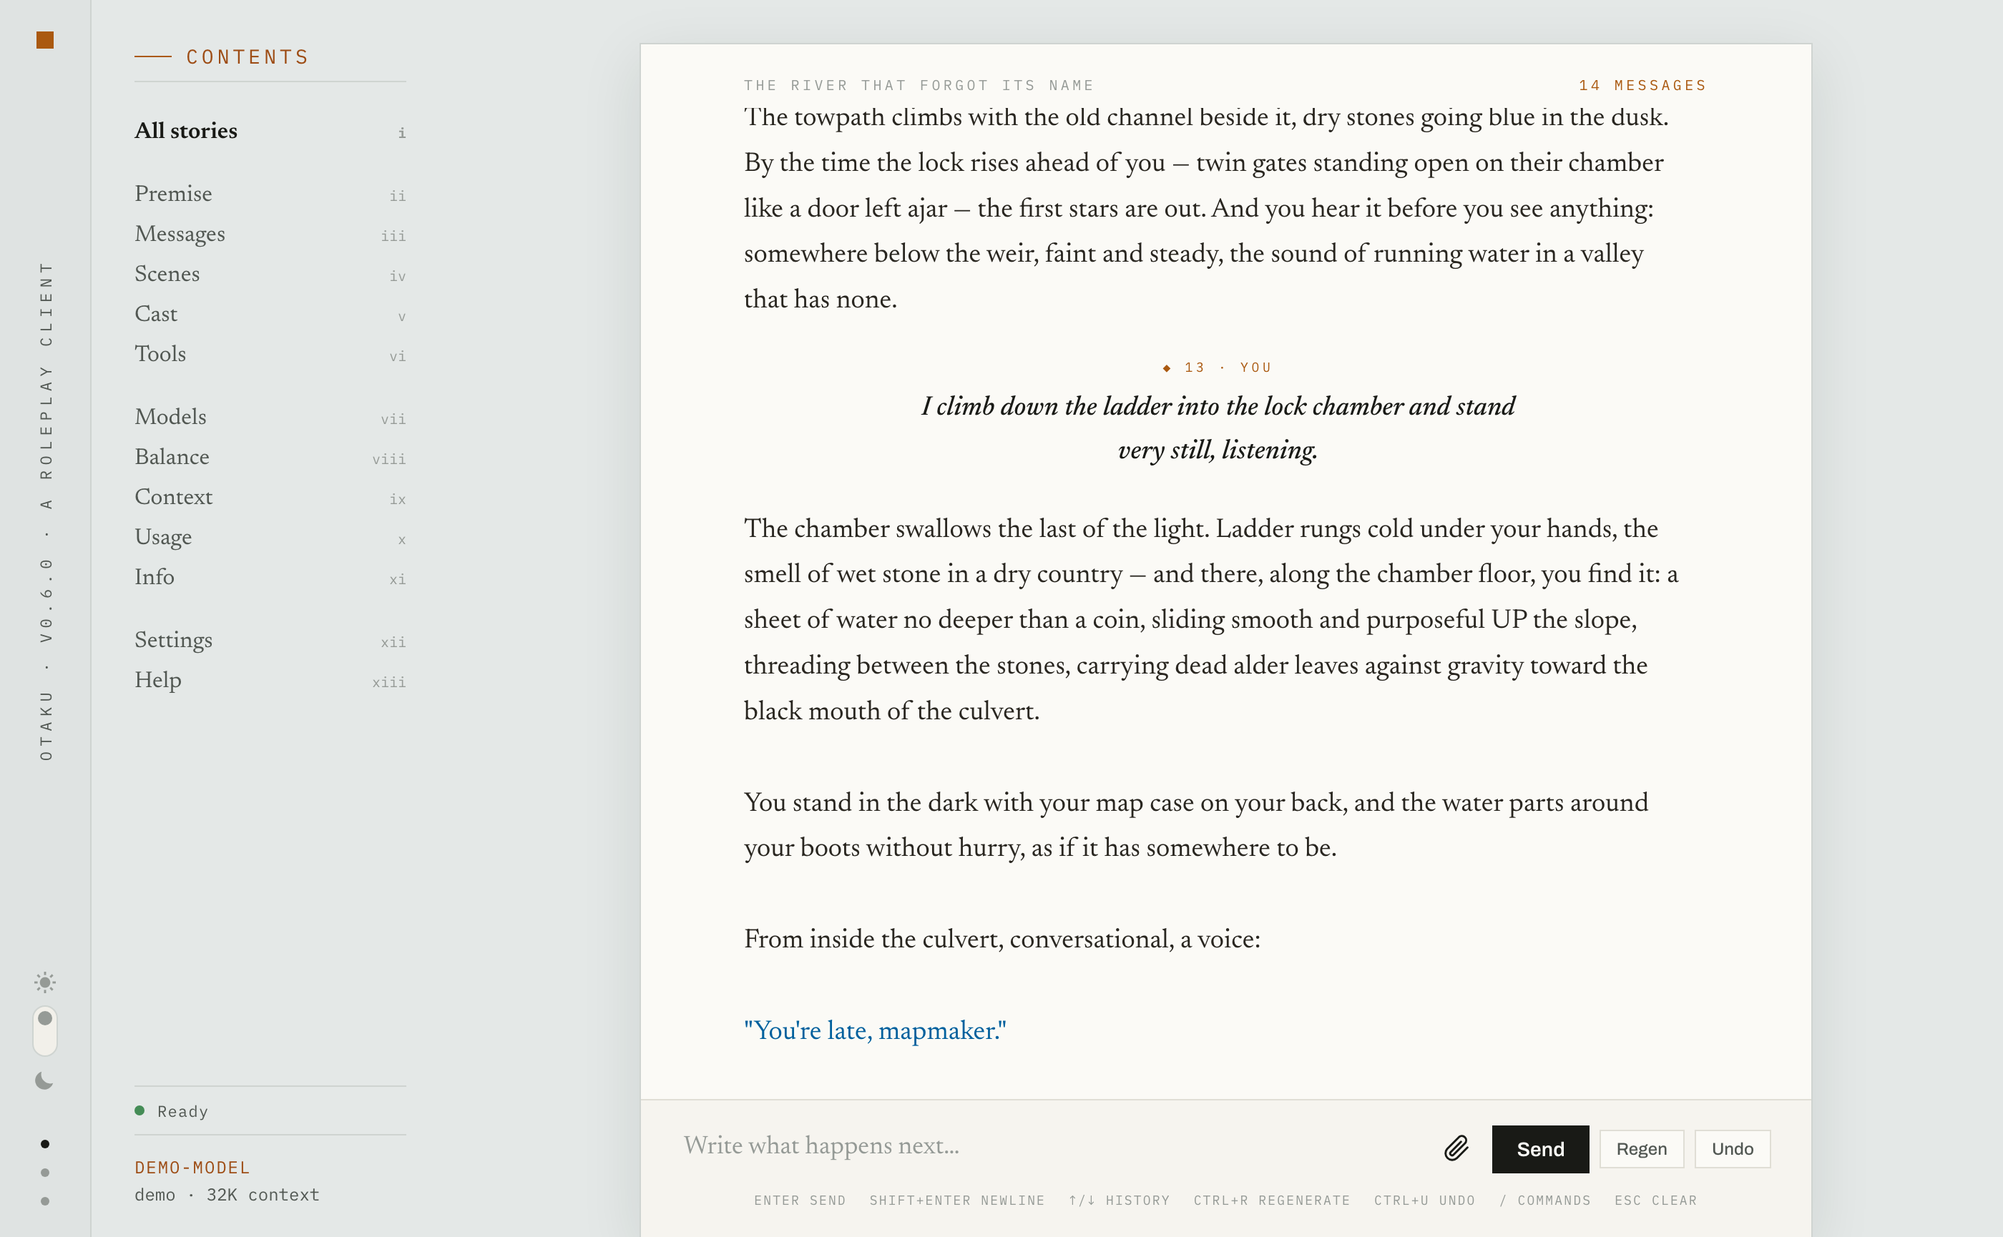
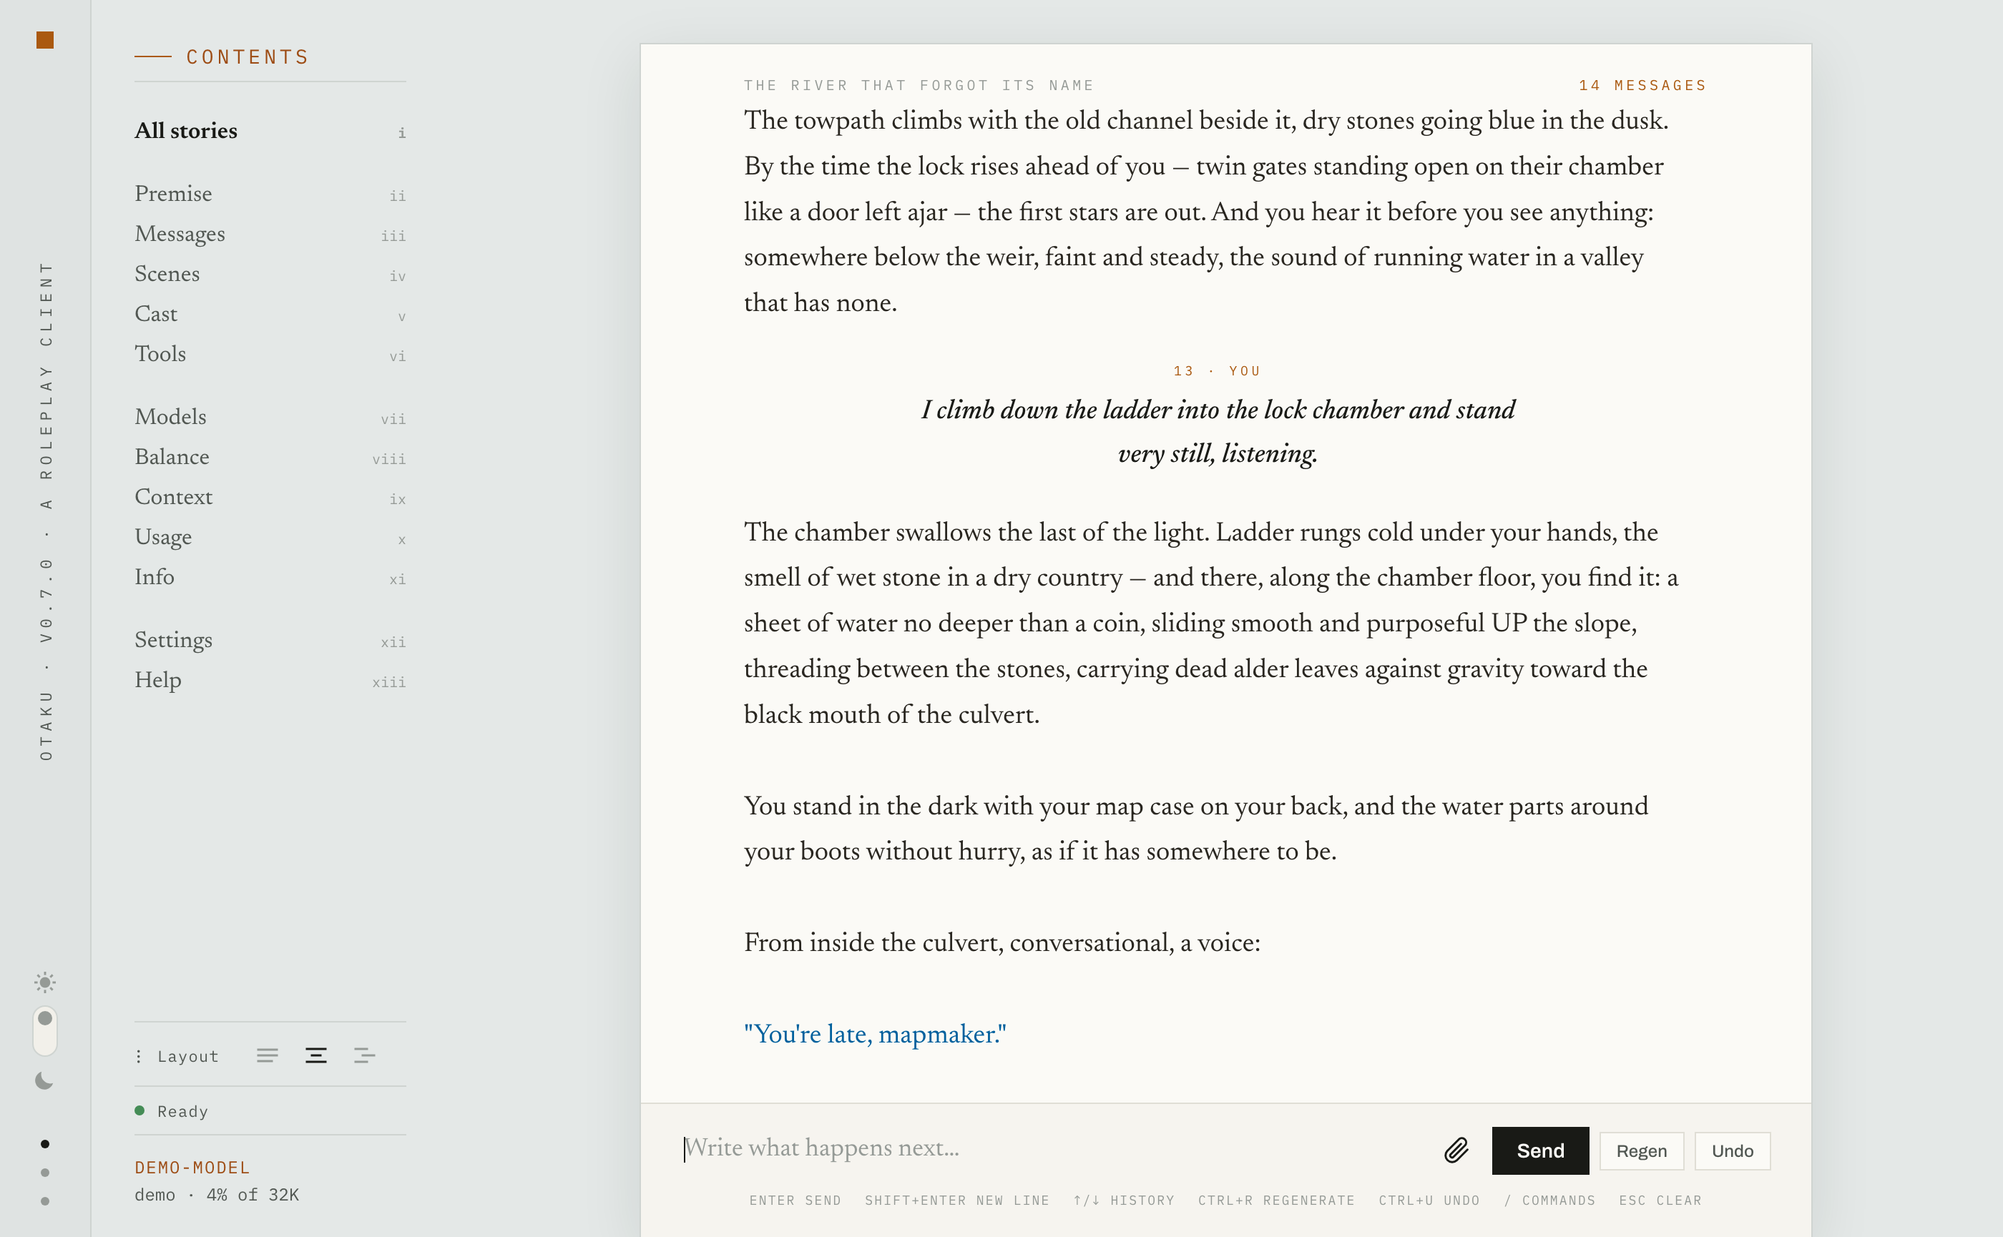
README and changelog for 0.7.0: creative writing and roleplay, the two modes, the tools; roadmap audio input; support@ author email; new screenshot

diff --git a/README.md b/README.md
@@ -1,13 +1,14 @@
-# otaku — an LLM frontend for roleplay
+# otaku — an LLM frontend for creative writing and roleplay
 
 [![PyPI](https://img.shields.io/pypi/v/otaku.svg)](https://pypi.org/project/otaku/)
 [![License: AGPL-3.0](https://img.shields.io/badge/license-AGPL--3.0-blue.svg)](https://github.com/enclavum/otaku/blob/main/LICENSE)
 [![Python 3.11+](https://img.shields.io/badge/python-3.11%2B-blue)](https://github.com/enclavum/otaku/blob/main/pyproject.toml)
 [![Platforms](https://img.shields.io/badge/platform-macOS%20%7C%20Linux%20%7C%20Windows-lightgrey)](https://github.com/enclavum/otaku#requirements)
 
-![otaku web](https://raw.githubusercontent.com/enclavum/otaku/main/images/capture-web.png?v=0.6.0)
+![otaku web](https://raw.githubusercontent.com/enclavum/otaku/main/images/capture-web.png?v=0.7.0)
 
-Otaku is an LLM frontend for roleplay (similar to SillyTavern, Janitor AI, etc.).
+Otaku is an LLM frontend for creative writing (like NovelAI) and roleplay (similar to SillyTavern,
+Janitor AI, etc.).
 
 It's free, works on your machine, and lets you play either in a web interface or in the terminal.
 LLMs can be local (via llama.cpp, KoboldCpp, Ollama, and others) or accessed via an API service
@@ -18,46 +19,68 @@ in one command, and requires minimal configuration.
 
 Demos are available on the [website](https://otaku.sh/):
 
-- Web demo: https://otaku.sh/demo-web/ (optimized for mobile too)
-- Terminal demo: https://otaku.sh/demo-terminal/
+- [Web and mobile](https://otaku.sh/demo-web/)
+- [Terminal](https://otaku.sh/demo-terminal/)
 
 Both demos include two sample stories and a scripted "model", so you can actually send prompts
 and see how the UI works.
 
 ## Features
 
-Main features:
+Writing features:
 
-- **consistent prose**: the first 20 and the last 150 messages are always sent to the LLM as
+- **two modes** with alternative UI layouts:
+  - _chat mode_ (the manuscript or chat layout in the web interface), when your story is
+    dialogue-based;
+  - _story mode_ (the canvas layout in the web interface), when you write the story as a novel
+    directly in the transcript;
+- **consistent prose**: the first 20 and the last 150 messages are always sent to the model as
   they are, to make it maintain the style;
-- **context control**: as the number of messages grows, intermediate messages are split into
-  scenes and are automatically replaced by scene summaries;
+- **automatic summaries and context control**: as the number of messages grows, intermediate
+  messages are split into scenes and are automatically replaced by scene summaries;
 - **character recognition**: characters you introduce in your story are extracted automatically;
   each character keeps their own journal of what they've seen and experienced;
-- **no fixed persona**: you are free to play any character during the story and hint to the LLM
-  who is playing whom (the `/me` and `/you` commands);
-- **transparent context**: you can see what will be sent to the LLM with the `/context` command;
-- **story tools**: the model can ask you a question with answers to pick from, keep private notes
-  between turns, and carry a reminder of yours at a depth you choose (the story dossier's Tools
-  tab).
+- **no fixed persona**: you are free to play any character during the story;
+- **pictures**: if the model supports vision, you can attach pictures to your messages;
+- **helper commands**: `/ooc` and `/cue` to steer the plot, `/me` and `/you` to say who is
+  speaking;
+- **transparent context**: you can see what will be sent to the model with the `/context` command.
 
-Import your content:
+Injections:
 
-- **character cards** — into a story you've already started (the `/card` command);
-- **SillyTavern chats** — this creates a new story that you can continue (the `/import` command);
-- **a text file** — will be split into turns, and you can play with the characters in it (also
-  the `/import` command);
-- **lorebooks or world info** have no equivalent in otaku, but they can be imported from a file
-  into the system message (the `/system` command).
+- **reminders** (aka author's notes): a custom reminder of yours injected at a depth you choose;
+- _lorebooks are planned (see below)_.
 
-Tentative roadmap: [ROADMAP.md](https://github.com/enclavum/otaku/blob/main/ROADMAP.md)
+Tools the model can use (switched on per story, in the story dossier's Tools tab):
+
+- **questions**: the model can ask you questions with answers to pick from — you pick an answer
+  instead of typing one;
+- **assistant notes**: the model can keep private notes between turns to store e.g. characters'
+  unspoken intentions, which can improve the plot development;
+- **web search**: the model can search for facts on the internet;
+- **system info**: the model can ask for the current date, time, and other local facts.
+
+Import your existing content:
+
+- **character cards** — into a story you've already started;
+- **SillyTavern chats** — creates a new story that you can continue;
+- **a plain text file** — will be split into turns, and you can play with the characters in it.
+
+Planned (a release every one to two weeks):
+
+- **a central character registry**: add and remove characters outside stories, and invite them
+  into a story;
+- **lorebooks**, including import from SillyTavern — not implemented yet, but you can import world
+  info into the system message;
+- **per-character context** for better character isolation;
+- **audio input**: speak instead of typing your turns.
 
 ## Requirements
 
 - Platform: macOS / Linux / Windows.
 - Local LLM provider(s) **or** an API key for cloud provider(s).
 
-Backends and providers supported: llama.cpp, KoboldCpp, Ollama, oMLX, LM Studio; OpenRouter and
+Providers supported: llama.cpp, KoboldCpp, Ollama, oMLX, LM Studio; OpenRouter and
 NanoGPT; and any other OpenAI-compatible server through the Generic OpenAI provider, by URL and
 key.
 
@@ -89,48 +112,39 @@ brew trust enclavum/tap
 brew install enclavum/tap/otaku
 ```
 
-### Updating
+How to update:
 
 ```bash
 otaku update
 ```
 
-The command detects how otaku was installed (uv, brew, etc.) and runs that installer's own
-upgrade.
+## Launch
 
-## User guide
+In the terminal, type one of the two commands:
+
+- `otaku` — opens the terminal UI;
+- `otaku web` — makes the web interface available at http://localhost:9600 (can be
+  [configured](#web-interface-settings)).
+
+On first start, you choose a provider and a model. Otaku automatically detects local LLM
+backends, while for cloud providers (OpenRouter, NanoGPT) you have to enter their API keys.
+You can also use any OpenAI-compatible provider by specifying its URL in the Generic OpenAI
+provider.
+After you've chosen a model, you land at the prompt. The model picker is also available later.
+
+To give you an idea of the features and what play looks like, two sample stories are imported on
+first start.
+
+## Terminal user guide
 
 Both the web interface and the terminal share the same functions; the difference is that in the
 terminal you execute them with slash commands (the reference is available with `/help`), while
 in the web interface the operations are available from the menu. In the description below, all
 commands are given as they are called from the terminal.
 
-### Launching
-
-In the terminal, type one of the 2 commands:
-
-```bash
-otaku          # for terminal
-otaku web      # for web interface; default URL is http://localhost:9600
-```
-
-On first start, you choose a provider and a model: otaku automatically detects local LLM
-backends and lets you pick from their models. Cloud providers (OpenRouter, NanoGPT) are also in
-the picker — enter an API key and their catalogs appear — and the Generic OpenAI provider,
-between the local backends and the cloud providers in the picker's panel, takes any other
-OpenAI-compatible server's URL and key. After you've
-chosen (or cancelled with Esc), you land at the prompt. The model picker is available later with
-the `/model` (Ctrl+O) command.
-
-To give you an idea of the features and what play looks like, two sample stories are imported on
-first start. `/stories` lets you choose one or the other, and `/lore`, `/cast`, and `/context`
-show what otaku has built from each.
-
-The command cheatsheet is available with `/help`.
-
 ### Starting a story
 
-From there, you can start your own story with the `/new` command. You can also import a
+You can start a new story with the `/new` command. You can also import a
 SillyTavern chat with `/import`. Note that importing takes time, because it not only imports
 the messages but also extracts characters and scenes from them (more on that below), though you
 can cancel the extraction. You can also import a plain text file the same way; it will be split
@@ -138,14 +152,14 @@ into messages.
 
 ### Playing
 
-You send messages as usual, as your persona; the LLM infers which character to play from the
+You send messages as usual, as your persona; the model infers which character to play from the
 dialogue. There are helper commands — `/you`, `/me`, and `/ooc` — which only frame your prompt
 with minimal injections like "you play as …" (you can see and configure these templates in
 `~/.otaku/configs/prompts.toml`).
 
 Mid-prompt, there are also two helper commands: `/ooc` and `/cue`. Both wrap the text after
 them in an OOC block; the difference is that the `/ooc` block persists — right for a standing
-note to the LLM — while the `/cue` block is sent only once — right for one-time story steering.
+note to the model — while the `/cue` block is sent only once — right for one-time story steering.
 
 A few example prompts:
 
@@ -153,8 +167,8 @@ A few example prompts:
 - `/ooc Keep replies under three paragraphs.` — out of character, a standing note
 - `"Who goes there?" I whisper. /ooc the keeper does not know me yet` — play with an aside
 - `"Come away with me," I tell the keeper. /cue she refuses` — play with a one-time steer
-- `/me Keeper: You are late again.` — hint to the LLM that you are playing Keeper now
-- `/you Keeper` — tell the LLM to play as Keeper
+- `/me Keeper: You are late again.` — hint to the model that you are playing Keeper now
+- `/you Keeper` — tell the model to play as Keeper
 - `/you Keeper: she is furious` — the same but with a direction
 
 For D&D roleplay, there is the `/roll` command: `/roll 1d20+5 I search the alcove` rolls the
@@ -163,21 +177,25 @@ same roll rather than re-rolling it. Dice examples: `2d6+3`, `d20`, `2d20kh1`/`2
 
 During play, you can `/undo` (Ctrl+U) the last exchange and `/regen` (Ctrl+R) the last reply.
 
+Switch between chat and story mode with `/set mode chat` or `/set mode story`; in the web
+interface, use the layout buttons in the contents.
+
 ### Importing character cards
 
 You can import character cards into the story you are playing with the `/card` command, where
 you specify a card file to load (either PNG or JSON). The command automatically creates a
 character in the lore (see below), and the character greets you. The card is treated as a normal
 prompt — it's just that you are sending the card content as your message. The imported card can
-later be edited in the `/cast` browser, and the context will change accordingly.
+later be edited in the `/cast` tab of the story dossier, and the context will change
+accordingly.
 
 ### Managing and forking stories
 
-You can browse the stories you've played with the `/stories` (Ctrl+T) command. From the stories
-picker, you can choose a story to continue from any message, or fork from there to another
+You can browse the stories you've played with the `/stories` (Ctrl+T) command. From the story
+browser, you can choose a story to continue from any message, or fork from there to another
 story. You can also fork a new version of the story you are playing with the `/fork` command.
 Forking copies all scenes, characters, journals, etc. to the new branch. Note that you can edit
-messages in the stories picker with the `e` key.
+messages in the story browser with the `e` key.
 
 ### Extracting summaries and lore
 
@@ -200,13 +218,7 @@ actually used. Nothing is included in the context by a condition or a trigger wo
 
 The exact context composition, case by case, is described in
 [context_design.md](https://github.com/enclavum/otaku/blob/main/docs/context_design.md).
-You can use the `/context` command to see what exactly will be sent to the LLM.
-
-### Customizing the web interface
-
-To restyle the web interface, create `~/.otaku/web/custom.css`; it overrides styles in the bundled
-design. The custom properties it can set are listed in
-[docs/web_tokens.md](https://github.com/enclavum/otaku/blob/main/docs/web_tokens.md).
+You can use the `/context` command to see what exactly will be sent to the model.
 
 ## Configuration and environments
 
@@ -232,18 +244,34 @@ touched.
 Set `OTAKU_CONFIG_DIR` to run a completely separate environment:
 `OTAKU_CONFIG_DIR=~/.otaku-alt otaku`.
 
-### Web interface
+### Web interface settings
 
-By default, the web interface is available on the local machine only. You can set it to public by
-editing the `host` parameter in the `[web]` section of `~/.otaku/configs/config.toml`. If you do,
-you should also consider turning on the next two parameters, `https` and `password`, for privacy.
+#### Local only, or over the network
+
+By default, the web interface is available on the local machine only. You can make it available
+over the network by changing the `host` parameter in the `[web]` section of
+`~/.otaku/configs/config.toml` from `localhost` to `0.0.0.0`.
+
+_If you go public, you should also consider turning on the next two parameters, `https` and
+`password`, for privacy._
+
+#### HTTPS protection
 
 The web interface can serve over HTTPS. Turn on `https` in the config file and otaku generates a
 self-signed certificate, which you can also replace with your own if you need to. Browsers will
-show warnings about an untrusted certificate. That is unavoidable with a self-signed certificate,
+show warnings about an untrusted certificate — that is unavoidable with a self-signed certificate,
 but the encryption is real.
 
-The web interface can be password-protected — set the password in the same config file.
+#### Password protection
+
+When the web interface is available over the network, protect it with a password — set it in the
+same config file.
+
+### Customizing the web interface
+
+To restyle the web interface, create `~/.otaku/web/custom.css`; it overrides styles in the bundled
+design. The custom properties it can set are listed in
+[docs/web_tokens.md](https://github.com/enclavum/otaku/blob/main/docs/web_tokens.md).
 
 ## Storage and privacy
 

diff --git a/CHANGELOG.md b/CHANGELOG.md
@@ -2,12 +2,51 @@
 
 See also the tentative roadmap: [ROADMAP.md](https://github.com/enclavum/otaku/blob/main/ROADMAP.md)
 
+## [0.7.0] - ...
+
+General:
+
+- Lore:
+  - Separate model for lore extraction. In both the terminal and the web interface, lore extraction
+    can use a model other than the one you write with.
+  - A character the extractor made by mistake can be deleted, with their journals, in both
+    frontends.
+- Tools:
+  - Web search tool. Enable it in your story on the Tools tab, set an API key
+    ([Tavily](https://app.tavily.com) or [Exa](https://dashboard.exa.ai/api-keys)) and the model can
+    search the web.
+  - System info tool. When enabled, the model can ask for the current date, time, moon phase, etc.
+- Frontends:
+  - How full the context is ("85% of 128K"), shown in both frontends after every turn and story
+    switch.
+  - Integrated feedback and support requests — send one from the terminal (`/support`) or the web
+    interface (the Help window).
+
+Web interface:
+
+- Three transcript layouts: canvas, manuscript and chat. The canvas layout reads the story as one
+  text — you can write it directly in the transcript and press Ctrl+Enter for the model to
+  continue.
+- Merge one character into another (in case lore extraction created a new character by mistake),
+  as `/merge` already does in the terminal.
+
+Terminal:
+
+- Two modes, chat and story (`/set mode`). As in the canvas layout on the web, you can write your
+  story directly in the transcript.
+
+In alpha:
+
+- Text completion. Can be enabled by adding `text_template = "plain"` under the model's section in
+  `~/.otaku/configs/models.toml`. When turned on, adds a fourth layout similar to the canvas, but
+  the story is sent to the engine's OpenAI-compatible text completion endpoint.
+
 ## [0.6.0] - 2026-09-26
 
 General:
 
 - Vision. If the selected model supports vision, you can attach images to your messages — in the
-  terminal after the `@` sign, with the paperclip button in the web UI.
+  terminal after the `@` sign, with the paperclip button in the web interface.
 - Story tools. A new tab is added to the story dossier, featuring four tools:
   - Questions — when turned on, the model will be instructed how to ask you a question. This also
     makes an assisted roleplay possible: instead of typing a prompt, you pick one of the suggested
@@ -19,7 +58,7 @@ General:
     a depth you choose.
   - Shared reminder — the same but shared between stories.
 
-Web UI:
+Web interface:
 
 - The import card action is moved from the main menu to the story dossier.
 
@@ -33,7 +72,7 @@ License:
 
 ## [0.5.0] - 2026-09-17
 
-Web UI:
+Web interface:
 
 - The web interface can now serve over HTTPS. Turn on `https` in
   `~/.otaku/configs/config.toml` and otaku generates a self-signed certificate, which you can
@@ -80,12 +119,12 @@ Bug fixes.
 ## [0.4.1] - 2026-09-03
 
 - A Generic OpenAI provider - any OpenAI-compatible server should work with it.
-- The web UI gets a dark theme switch.
+- The web interface gets a dark theme switch.
 
 ## [0.4.0] - 2026-09-02
 
-- Added web UI: `otaku web` opens the same session in a browser — the second frontend, over the
-  same stories, the same lore and the same commands.
+- Added web interface: `otaku web` opens the same session in a browser — the second frontend, over
+  the same stories, the same lore and the same commands.
 - Added native Windows support (10 and 11, 64-bit only).
 - The context builder is reworked from the ground up, after `docs/context_design.md`; the new
   `max_context` setting keeps the prompt inside the window models still handle well for roleplay.

diff --git a/CONTRIBUTING.md b/CONTRIBUTING.md
@@ -1,6 +1,6 @@
 # Contributing to otaku
 
-otaku is a focused project — an LLM frontend for roleplay.
+otaku is a focused project — an LLM frontend for creative writing and roleplay.
 
 At this stage of the project, until the core features have fully settled, I gladly accept pull
 requests with bug fixes, but I'd like to add new features or update existing ones myself. Feel

diff --git a/ROADMAP.md b/ROADMAP.md
@@ -5,6 +5,7 @@ along the way.
 
 - 0.8: global character registry, adding/removing characters outside stories, inviting
   characters into a story
+  - 0.8.1: audio input
 - 0.9: manually written lorebooks as opposed to automatic lore extraction
   - 0.9.1: lorebooks full import from ST
 - 0.10: a helper model called before and after each turn, per-character context
